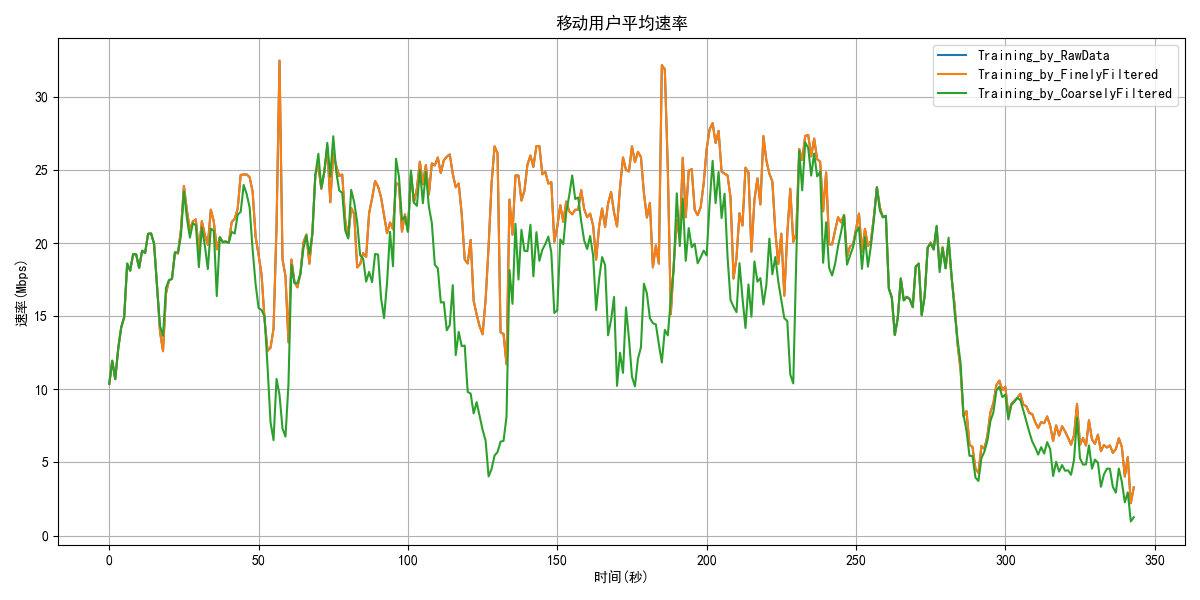
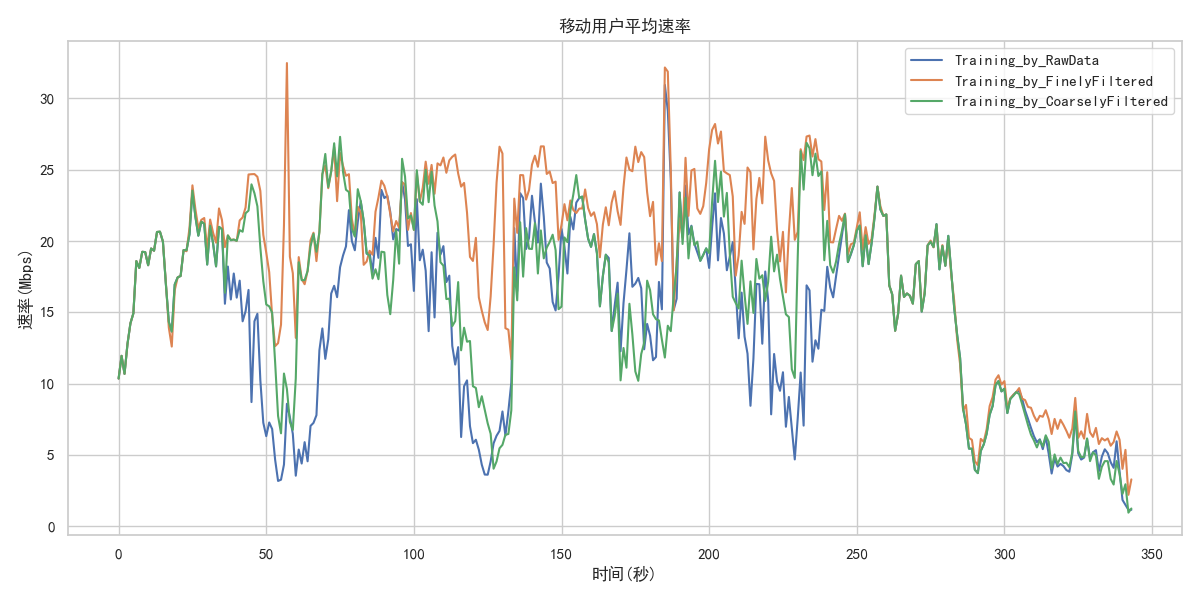
0805汇报版本

diff --git a/src/views/WirelessData.vue b/src/views/WirelessData.vue
@@ -131,6 +131,18 @@
               ></textarea>
             </div>
 
+            <!-- 贡献者 -->
+            <div class="form-group">
+              <label class="form-label">贡献者</label>
+              <input
+                v-model="uploadForm.contributor"
+                type="text"
+                class="form-input"
+                placeholder="请输入贡献者姓名"
+                required
+              />
+            </div>
+
             <!-- 文件上传区域 -->
             <div class="form-group">
               <label class="form-label">上传数据文件</label>
@@ -187,6 +199,7 @@
                 :disabled="
                   !uploadForm.datasetType ||
                   !uploadForm.name ||
+                  !uploadForm.contributor ||
                   uploadedFiles.length === 0 ||
                   uploading
                 "
@@ -300,6 +313,7 @@ export default {
       datasetType: "",
       name: "",
       description: "",
+      contributor: "", // 新增贡献者字段
     });
     const uploadedFiles = ref([]);
     const fileInput = ref(null);
@@ -346,6 +360,7 @@ export default {
         datasetType: "",
         name: "",
         description: "",
+        contributor: "", // 重置贡献者字段
       };
       uploadedFiles.value = [];
       if (fileInput.value) {
@@ -361,6 +376,7 @@ export default {
       formData.append("datasetType", uploadForm.value.datasetType);
       formData.append("name", uploadForm.value.name);
       formData.append("description", uploadForm.value.description);
+      formData.append("contributor", uploadForm.value.contributor); // 添加贡献者信息
 
       // 添加文件
       uploadedFiles.value.forEach((file) => {
@@ -447,10 +463,11 @@ export default {
           ),
         ];
 
-        // 3. 创建数据集对象（包含后端返回的文件ID）
+        // 3. 创建数据集对象（包含后端返回的文件ID和贡献者信息）
         const newDataset = {
           name: uploadForm.value.name,
           description: uploadForm.value.description,
+          contributor: uploadForm.value.contributor, // 添加贡献者信息
           size: `${totalSizeGB} GB`,
           format: formats.join(", "),
           id: uploadResult.datasetId, // 使用后端返回的ID
@@ -637,6 +654,7 @@ export default {
 </script>
 
 <style scoped>
+/* 样式代码保持不变，这里省略以节省空间 */
 /* 动画相关样式 */
 .animate-fade-up {
   opacity: 0;

diff --git a/src/views/wirelessDataWarehouse/DatasetDetail.vue b/src/views/wirelessDataWarehouse/DatasetDetail.vue
@@ -84,6 +84,12 @@
               <div class="dataset-description">{{ dataset.description }}</div>
               <div class="dataset-meta">
                 <div class="meta-row">
+                  <span class="meta-label">贡献者：</span>
+                  <span class="meta-value">{{
+                    dataset.contributor || "未知"
+                  }}</span>
+                </div>
+                <div class="meta-row">
                   <span class="meta-label">大小：</span>
                   <span class="meta-value">{{ dataset.size }}</span>
                 </div>
@@ -138,6 +144,12 @@
           <div class="dataset-info">
             <h4>{{ selectedDataset?.name }}</h4>
             <p>{{ selectedDataset?.description }}</p>
+            <div class="contributor-info">
+              <span class="contributor-label">贡献者：</span>
+              <span class="contributor-name">{{
+                selectedDataset?.contributor || "未知"
+              }}</span>
+            </div>
           </div>
 
           <div class="download-options">
@@ -322,7 +334,9 @@ export default {
         filtered = filtered.filter(
           (dataset) =>
             dataset.name.toLowerCase().includes(keyword) ||
-            dataset.description.toLowerCase().includes(keyword)
+            dataset.description.toLowerCase().includes(keyword) ||
+            (dataset.contributor &&
+              dataset.contributor.toLowerCase().includes(keyword))
         );
       }
 
@@ -979,9 +993,23 @@ export default {
 }
 
 .dataset-info p {
-  margin: 0;
+  margin: 0 0 8px 0;
   color: #697586;
   font-size: 14px;
+}
+
+.contributor-info {
+  font-size: 13px;
+  color: #697586;
+}
+
+.contributor-label {
+  font-weight: 500;
+}
+
+.contributor-name {
+  color: #263fff;
+  font-weight: 500;
 }
 
 .download-options {

diff --git a/src/stores/beamSelection.js b/src/stores/beamSelection.js
@@ -60,19 +60,19 @@ export const useBeamSelectionStore = defineStore("beamSelection", {
     performanceData: [
       {
         metric: "平均速率",
-        rawData: "18.93",
+        rawData: "14.44",
         finelyFiltered: "18.93",
         coarselyFiltered: "15.95",
       },
       {
         metric: "90百分位速率",
-        rawData: "25.55",
+        rawData: "21.36",
         finelyFiltered: "25.55",
         coarselyFiltered: "23.09",
       },
       {
         metric: "10百分位数据",
-        rawData: "7.58",
+        rawData: "5.1",
         finelyFiltered: "7.58",
         coarselyFiltered: "5.55",
       },
@@ -244,7 +244,10 @@ export const useBeamSelectionStore = defineStore("beamSelection", {
         const result = await response.json();
         console.log("图像生成结果:", result);
 
-        this.resultImages = result.images;
+        this.resultImages = (result.images || []).map((img) => ({
+          ...img,
+          url: getApiUrl(img.url, baseUrl),
+        }));
         console.log("resultImages:", this.resultImages);
 
         this.showResults = true;

diff --git a/src/views/scenarios/AIForRAN.vue b/src/views/scenarios/AIForRAN.vue
@@ -121,7 +121,7 @@ export default {
         id: "energysaving",
         name: "智慧节能",
         description:
-          "AI驱动的网络优化工具，支持KPI分析、参数调优与Viavi仿真，生成专业优化方案。",
+          "网络能耗优化监控平台，支持指标预测、节能配置与实时监控，实现基站智能节能降耗管理。",
         icon: "Connection",
         improvement: "↑ 50%",
         complexity: 5,
@@ -131,7 +131,7 @@ export default {
         id: "activebeamselection",
         name: "主动波束选择",
         description:
-          "AI驱动的网络优化工具，支持KPI分析、参数调优与Viavi仿真，生成专业优化方案。",
+          "智能波束选择与优化平台，支持多维数据训练、深度学习模型推理与性能评估，提升无线网络覆盖效果。",
         icon: "Connection",
         improvement: "↑ 50%",
         complexity: 5,

diff --git a/src/src/config/globalConfig.js b/src/src/config/globalConfig.js
@@ -1,5 +1,6 @@
 // 全局配置
 export default {
   // 全局 API 基础 URL
-  baseUrl: "http://127.0.0.1:4523/m1/5785836-5470237-default",
+  // baseUrl: "http://127.0.0.1:4523/m1/5785836-5470237-default",
+  baseUrl: "http://172.30.131.24:5000"
 };
